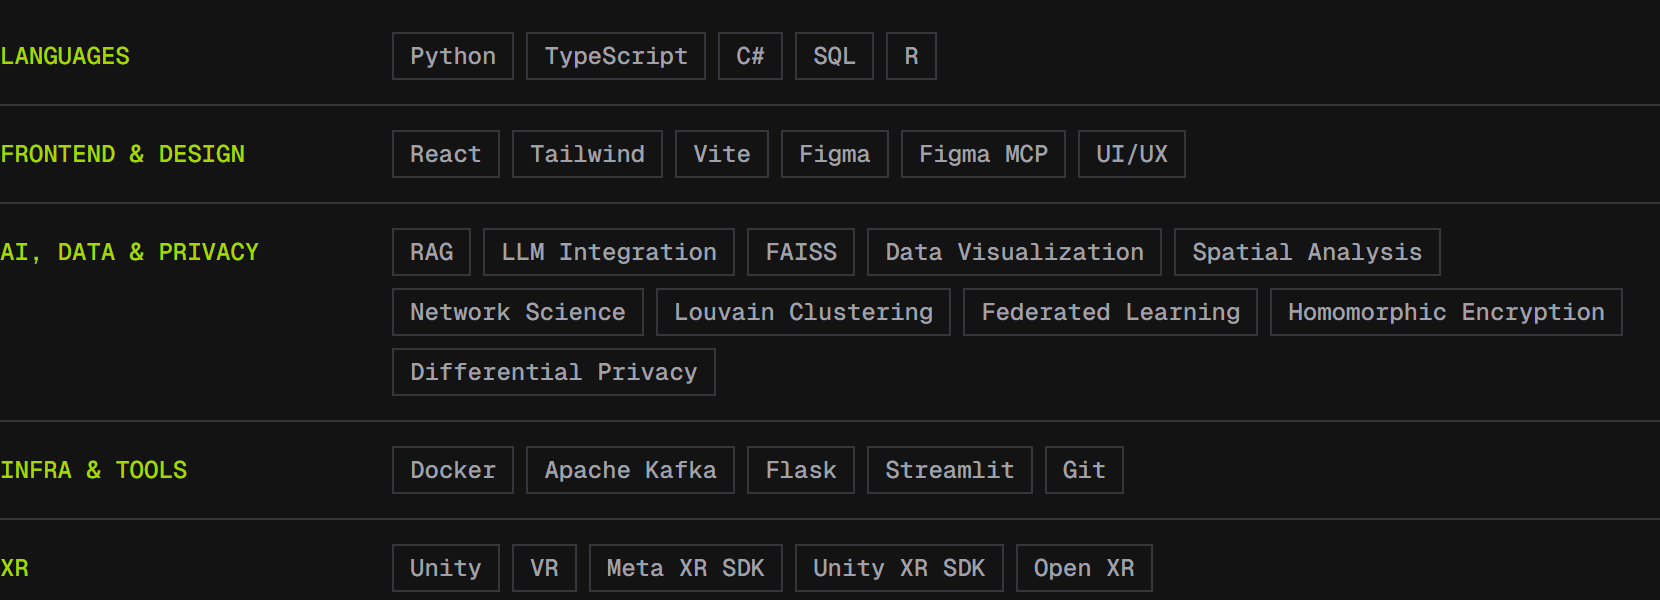
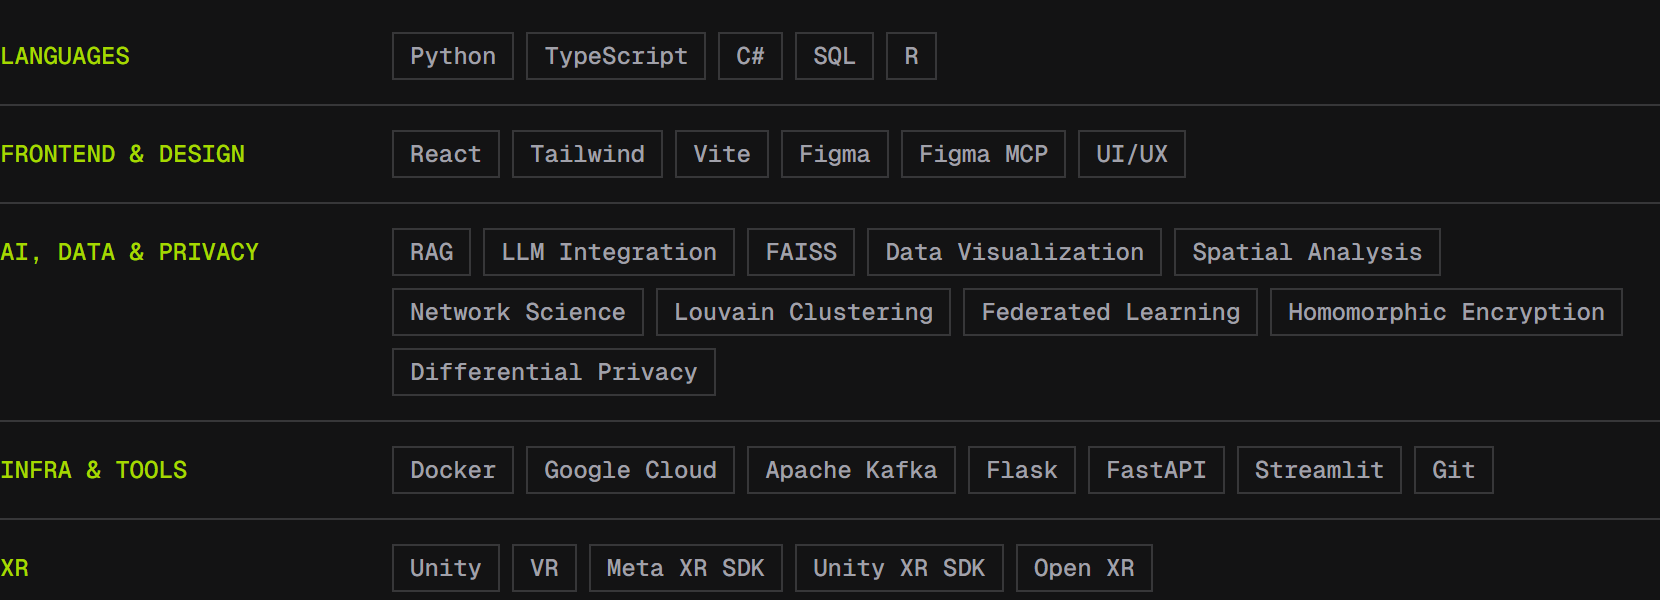
updated projects

Changed region(s): [[0.4608, 0.72, 0.891, 0.84], [0.3072, 0.75, 0.4301, 0.81]]

diff --git a/README.md b/README.md
@@ -6,14 +6,18 @@
 
 <p>
 <a href="https://siddharthgeddam.dev/projects/signpose-vr"><img src="assets/project-signpose-vr.png" width="49%" alt="SignPoseVR, learn ASL in VR. C#, Unity, VR, Meta XR SDK."></a>
+<a href="https://siddharthgeddam.dev/projects/iit-campus-assistant"><img src="assets/project-iit-campus-assistant.png" width="49%" alt="IIT Campus Assistant. Python, Apache Kafka, FAISS, RAG, LLM integration."></a>
+</p>
+<p>
+<a href="https://siddharthgeddam.dev/projects/mars-map"><img src="assets/project-mars-map.png" width="49%" alt="Interactive Mars map, NASA Space Apps Challenge. Python, FastAPI, spatial analysis, Docker, Google Cloud."></a>
 <a href="https://siddharthgeddam.dev/projects/confidential-ml-federated-learning"><img src="assets/project-confidential-ml-federated-learning.png" width="49%" alt="ConfidentialML. Python, federated learning, homomorphic encryption, differential privacy."></a>
 </p>
 <p>
-<a href="https://siddharthgeddam.dev/projects/iit-campus-assistant"><img src="assets/project-iit-campus-assistant.png" width="49%" alt="IIT Campus Assistant. Python, Apache Kafka, FAISS, RAG, LLM integration."></a>
 <a href="https://siddharthgeddam.dev/projects/spatial-inequality-cook-county"><img src="assets/project-spatial-inequality-cook-county.png" width="49%" alt="Neighborhood Evolution in Cook County. R, spatial analysis, network science, Louvain clustering."></a>
+<a href="https://siddharthgeddam.dev/projects/sidportfolio-engineering"><img src="assets/project-sidportfolio-engineering.png" width="49%" alt="Portfolio, engineering the interface. React, TypeScript, Tailwind, Vite."></a>
 </p>
 <p>
-<a href="https://siddharthgeddam.dev/projects/sidportfolio-engineering"><img src="assets/project-sidportfolio-engineering.png" width="49%" alt="Portfolio, engineering the interface. React, TypeScript, Tailwind, Vite."></a>
+<a href="https://siddharthgeddam.dev/projects/sidportfolio-design"><img src="assets/project-sidportfolio-design.png" width="49%" alt="Portfolio, designing the system. Figma, UI/UX, Figma MCP."></a>
 <a href="https://siddharthgeddam.dev/projects/ieee-iit-style-guide"><img src="assets/project-ieee-iit-style-guide.png" width="49%" alt="IEEE at IIT style guide. Figma, UI/UX."></a>
 </p>
 
@@ -21,7 +25,7 @@
 
 <img src="assets/heading-stack.png" width="100%" alt="Stack">
 
-<img src="assets/stack.png" width="100%" alt="Languages: Python, TypeScript, C#, SQL, R. Frontend and design: React, Tailwind, Vite, Figma, Figma MCP, UI/UX. AI, data and privacy: RAG, LLM integration, FAISS, data visualization, spatial analysis, network science, Louvain clustering, federated learning, homomorphic encryption, differential privacy. Infra and tools: Docker, Apache Kafka, Flask, Streamlit, Git. XR: Unity, VR, Meta XR SDK, Unity XR SDK, OpenXR.">
+<img src="assets/stack.png" width="100%" alt="Languages: Python, TypeScript, C#, SQL, R. Frontend and design: React, Tailwind, Vite, Figma, Figma MCP, UI/UX. AI, data and privacy: RAG, LLM integration, FAISS, data visualization, spatial analysis, network science, Louvain clustering, federated learning, homomorphic encryption, differential privacy. Infra and tools: Docker, Google Cloud, Apache Kafka, Flask, FastAPI, Streamlit, Git. XR: Unity, VR, Meta XR SDK, Unity XR SDK, OpenXR.">
 
 <img src="assets/heading-experience.png" width="100%" alt="Experience">
 
